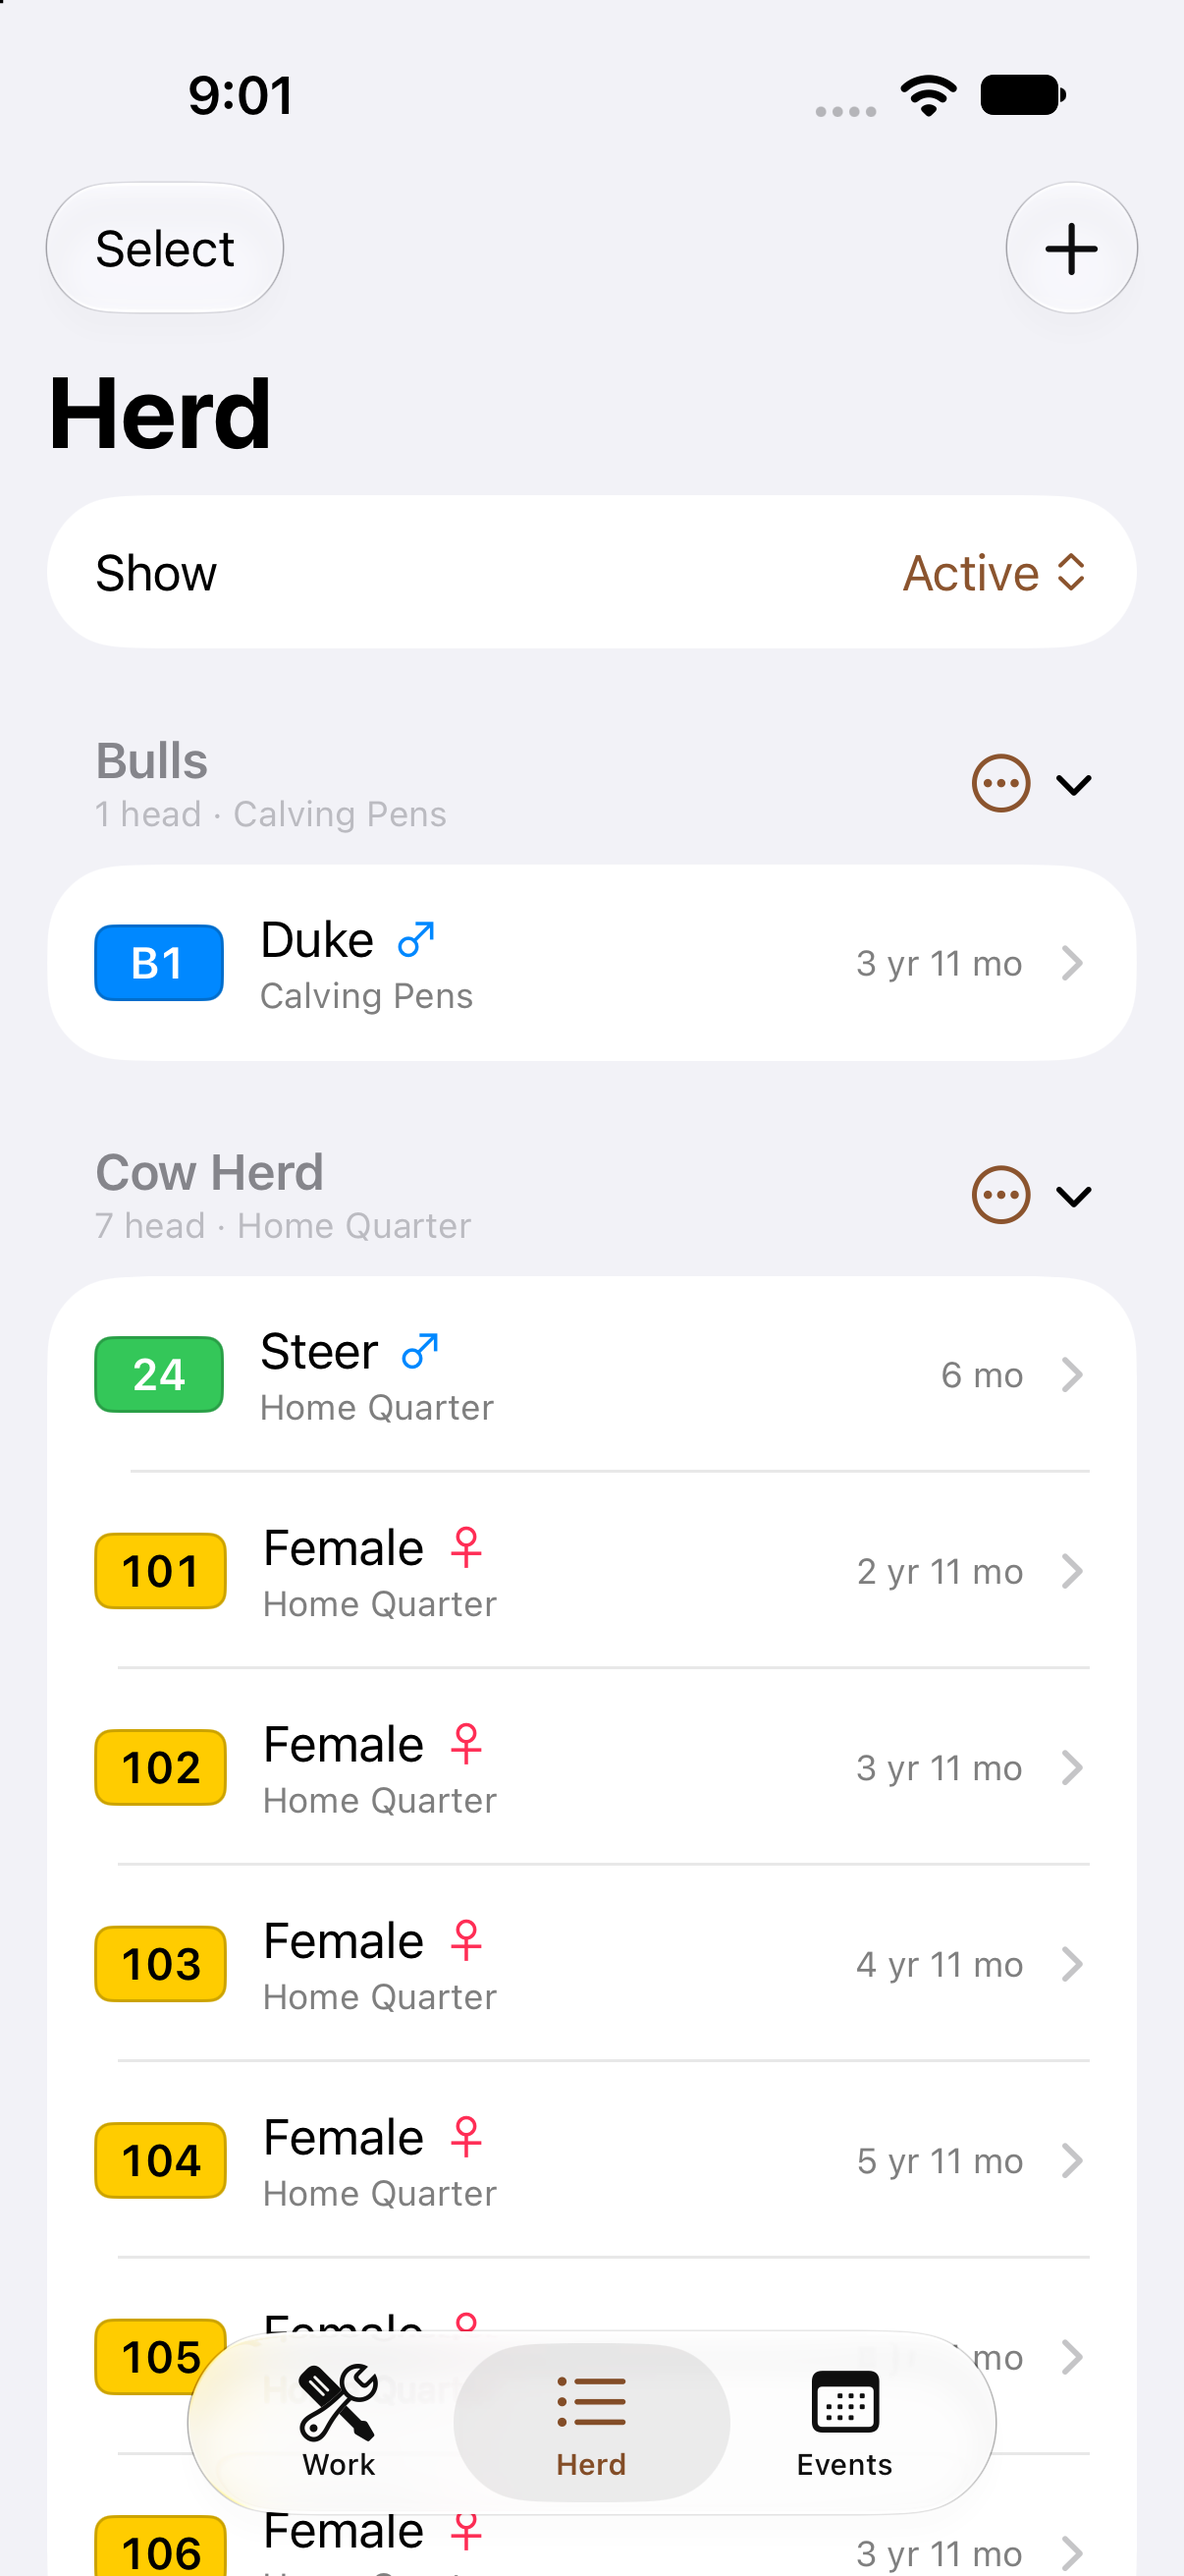
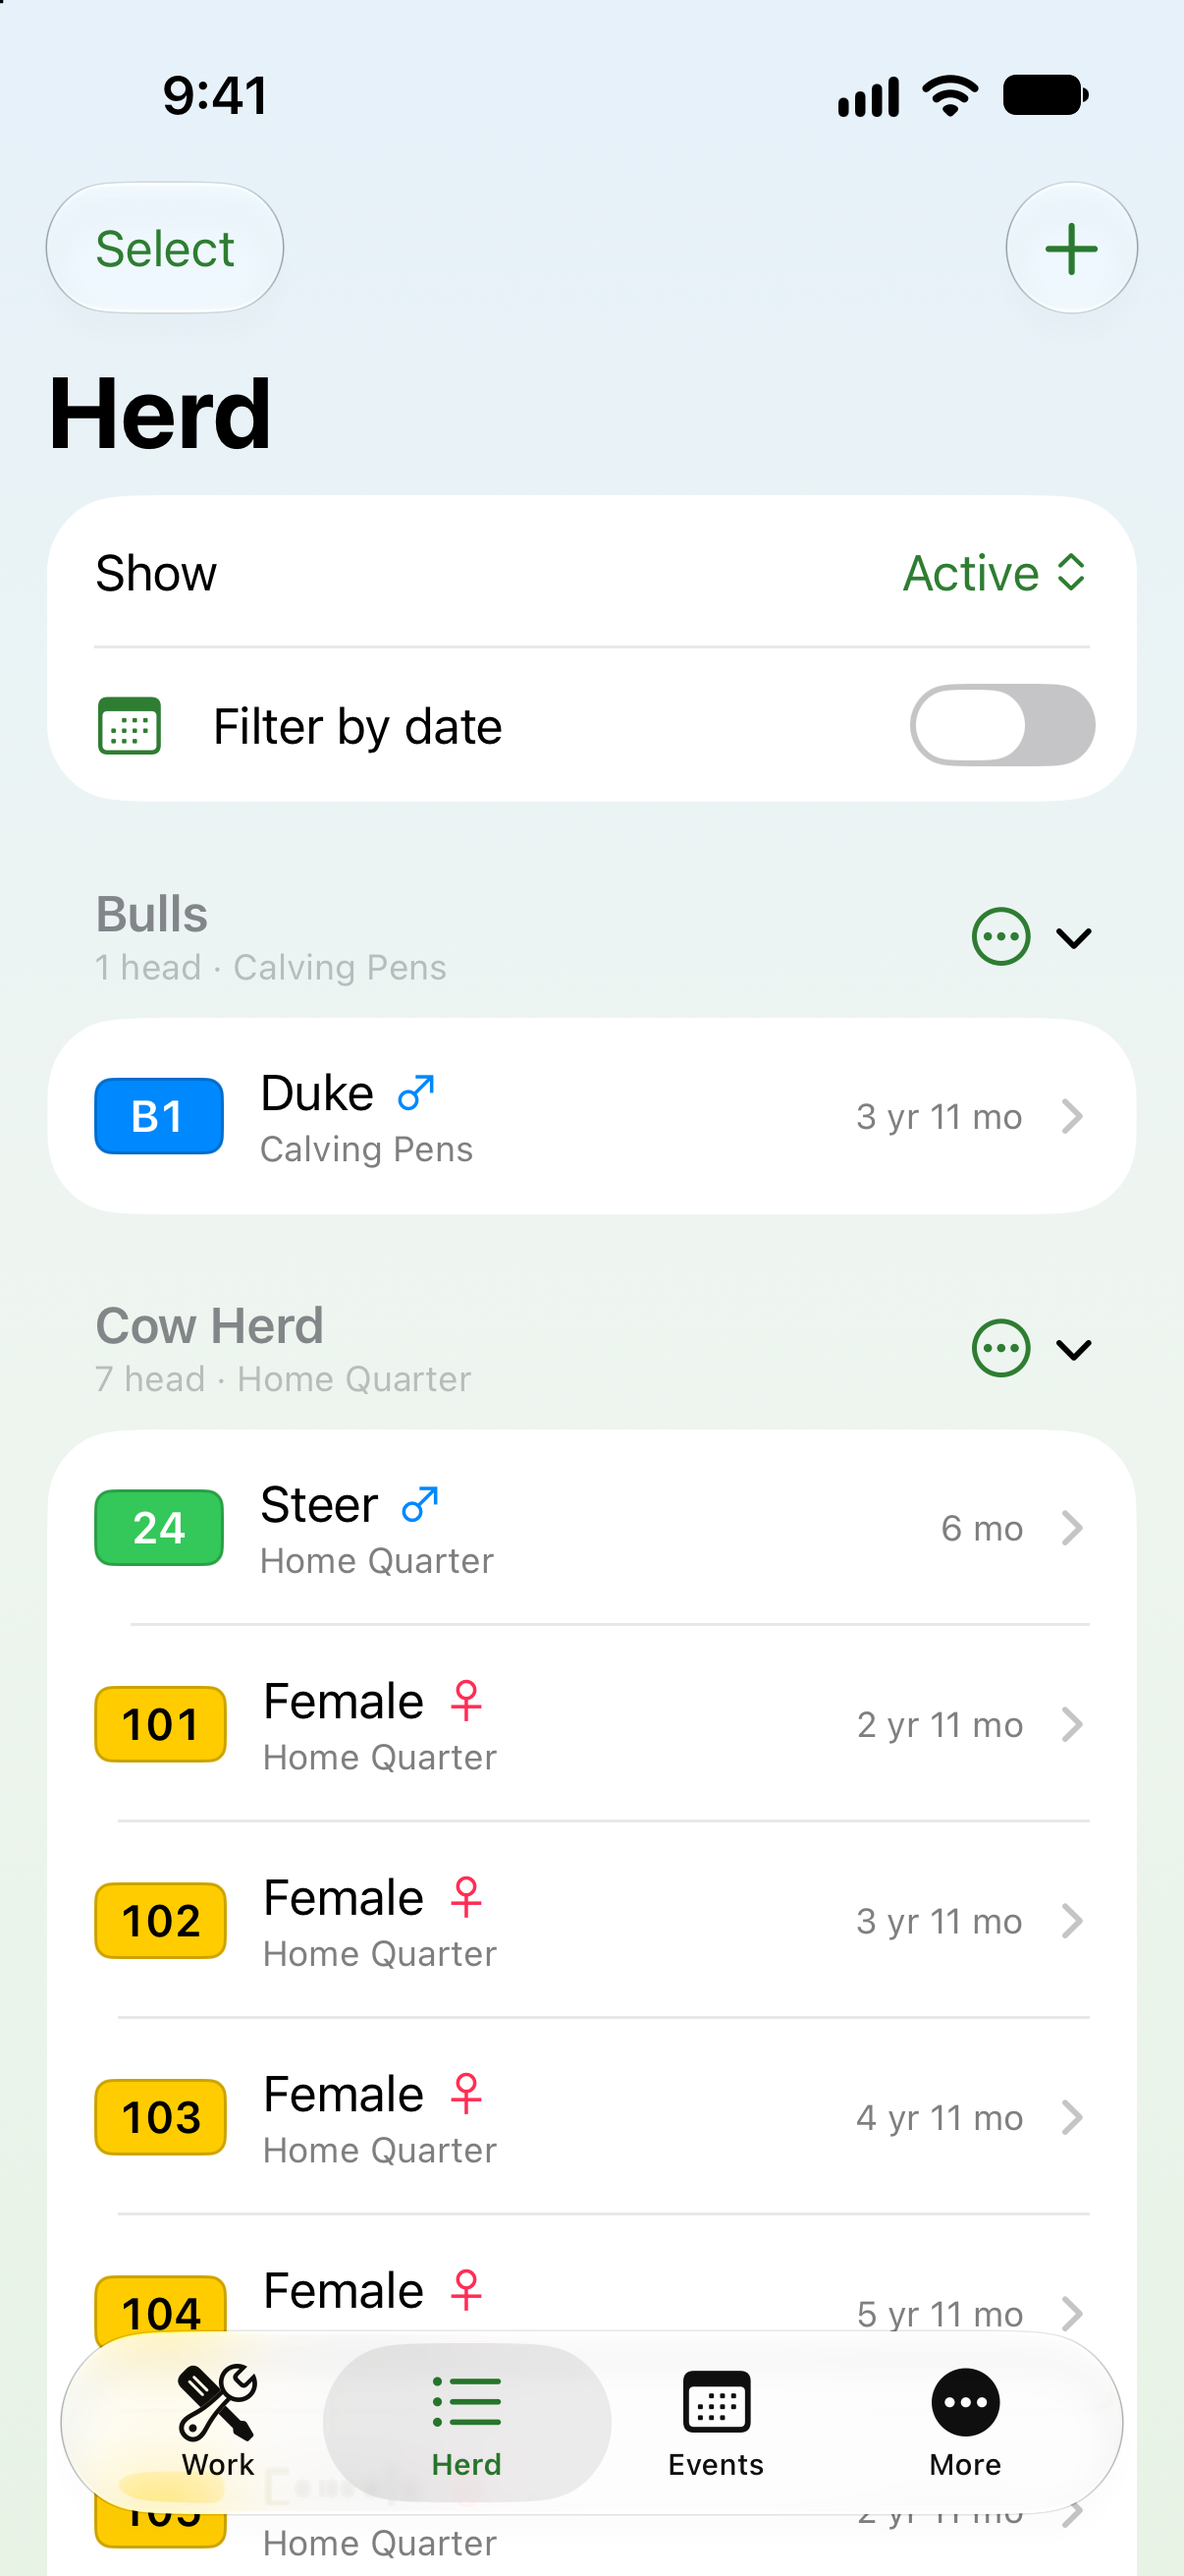
Add files via upload

diff --git a/ranchmaster_site/index.html b/ranchmaster_site/index.html
@@ -17,12 +17,14 @@
       </a>
       <nav class="nav-links" aria-label="Main navigation">
         <a href="#features">Features</a>
+        <a href="#screenshots">Screenshots</a>
         <a href="#pastures">Pastures &amp; Breeding</a>
         <a href="#crew">iCloud &amp; Crew</a>
         <a href="#reports">Reports</a>
+        <a href="help.html">Help</a>
         <a href="support.html">Support</a>
       </nav>
-      <a href="#download" class="btn btn-primary btn-sm">Get for iOS</a>
+      <a href="#notify" class="btn btn-primary btn-sm">Notify Me</a>
     </div>
   </header>
 
@@ -35,14 +37,20 @@
           <p class="lead">
             RanchMaster keeps your herd, pastures, breeding records, feed costs, and crew in sync—built to work without cell service and sync automatically over iCloud when you’re back in range.
           </p>
-          <div class="hero-actions" id="download">
-            <a href="#" class="btn btn-primary">Download on the App Store</a>
-            <a href="#features" class="btn btn-secondary">Explore Features</a>
+          <div class="notify-box" id="notify">
+            <label for="hero-email" class="notify-label">Be notified of the App Store release:</label>
+            <form class="notify-form" data-notify-form>
+              <input id="hero-email" name="email" type="email" class="notify-input" placeholder="you@example.com" required autocomplete="email" aria-label="Email address for release notification" />
+              <button type="submit" class="btn btn-primary">Notify Me</button>
+              <a href="#features" class="btn btn-secondary">Explore Features</a>
+            </form>
+            <p class="notify-status" aria-live="polite"></p>
           </div>
           <div class="hero-meta">
             <span>✓ Works offline on the ranch</span>
             <span>✓ EID &amp; camera tag scanning</span>
             <span>✓ Built-in sample ranch to try</span>
+            <span>✓ <a href="help.html">Full user guide</a></span>
           </div>
         </div>
 
@@ -203,12 +211,76 @@
       </div>
     </section>
 
+    <section id="screenshots">
+      <div class="container">
+        <div class="section-header">
+          <h2>See RanchMaster in Action</h2>
+          <p>Built for clarity in bright sunlight, at the chute, and at the desk.</p>
+        </div>
+
+        <div class="gallery-grid">
+          <figure class="gallery-item">
+            <div class="gallery-frame">
+              <img src="assets/screenshots/01-Work.png" alt="Work tab with quick actions and satellite pasture map" loading="lazy" />
+            </div>
+            <figcaption>Work &amp; Pasture Map</figcaption>
+          </figure>
+          <figure class="gallery-item">
+            <div class="gallery-frame">
+              <img src="assets/screenshots/02-Herd.png" alt="Herd tab with cattle groups and tag search" loading="lazy" />
+            </div>
+            <figcaption>Herd &amp; Groups</figcaption>
+          </figure>
+          <figure class="gallery-item">
+            <div class="gallery-frame">
+              <img src="assets/screenshots/03-Animal.png" alt="Animal detail screen with pedigree, weights, and profit" loading="lazy" />
+            </div>
+            <figcaption>Animal Profile</figcaption>
+          </figure>
+          <figure class="gallery-item">
+            <div class="gallery-frame">
+              <img src="assets/screenshots/04-Field.png" alt="Field screen with grazing days, AUMs, and bull log" loading="lazy" />
+            </div>
+            <figcaption>Field &amp; Grazing</figcaption>
+          </figure>
+          <figure class="gallery-item">
+            <div class="gallery-frame">
+              <img src="assets/screenshots/05-Sort.png" alt="Chute-side Sort screen with camera and EID scanning" loading="lazy" />
+            </div>
+            <figcaption>Chute-Side Sort</figcaption>
+          </figure>
+          <figure class="gallery-item">
+            <div class="gallery-frame">
+              <img src="assets/screenshots/06-ShippingReport.png" alt="Printable Shipping Report PDF preview" loading="lazy" />
+            </div>
+            <figcaption>Shipping Report PDF</figcaption>
+          </figure>
+          <figure class="gallery-item">
+            <div class="gallery-frame">
+              <img src="assets/screenshots/07-Reports.png" alt="Reports and exports menu" loading="lazy" />
+            </div>
+            <figcaption>Reports &amp; Exports</figcaption>
+          </figure>
+          <figure class="gallery-item">
+            <div class="gallery-frame">
+              <img src="assets/screenshots/08-Ranches.png" alt="Multi-ranch switcher and iCloud crew sharing" loading="lazy" />
+            </div>
+            <figcaption>Ranches &amp; Crew</figcaption>
+          </figure>
+        </div>
+      </div>
+    </section>
+
     <section>
       <div class="container">
         <div class="cta-banner">
-          <h2>Ready to simplify your herd records?</h2>
-          <p>Download RanchMaster for iPhone and iPad, load the built-in sample ranch to explore, and start tracking your cattle in minutes.</p>
-          <a href="#download" class="btn btn-secondary">Get RanchMaster on the App Store</a>
+          <h2>Be notified when RanchMaster launches</h2>
+          <p>Coming soon for iPhone and iPad. Enter your email to get a one-time notification on release day.</p>
+          <form class="notify-form" data-notify-form>
+            <input name="email" type="email" class="notify-input" placeholder="you@example.com" required autocomplete="email" aria-label="Email address for release notification" />
+            <button type="submit" class="btn btn-secondary">Notify Me</button>
+          </form>
+          <p class="notify-status" aria-live="polite"></p>
         </div>
       </div>
     </section>
@@ -218,6 +290,7 @@
     <div class="container footer-inner">
       <div>© <span id="year">2026</span> RanchMaster. All rights reserved.</div>
       <div class="footer-links">
+        <a href="help.html">Help</a>
         <a href="support.html">Support</a>
         <a href="privacy.html">Privacy Policy</a>
       </div>
@@ -225,6 +298,24 @@
   </footer>
   <script>
     document.getElementById("year").textContent = new Date().getFullYear();
+
+    document.querySelectorAll("[data-notify-form]").forEach((form) => {
+      form.addEventListener("submit", (e) => {
+        e.preventDefault();
+        const input = form.querySelector('input[type="email"]');
+        const status = form.parentElement.querySelector(".notify-status");
+        const email = input.value.trim();
+        if (!email) return;
+
+        // Static-site fallback: open a pre-filled email to info@glennbonnet.com or replace with a form endpoint (e.g. Formspree).
+        const subject = encodeURIComponent("RanchMaster Release Notification");
+        const body = encodeURIComponent("Please notify me when RanchMaster is released on the App Store.\n\nEmail: " + email);
+        window.location.href = "mailto:info@glennbonnet.com?subject=" + subject + "&body=" + body;
+
+        status.textContent = "Thanks! Your email app has been opened to register " + email + " for release updates.";
+        form.reset();
+      });
+    });
   </script>
 </body>
 </html>

diff --git a/ranchmaster_site/styles.css b/ranchmaster_site/styles.css
@@ -412,6 +412,111 @@ section {
   border: none;
 }
 
+/* Release Notification Form */
+.notify-box {
+  margin-bottom: 24px;
+}
+
+.notify-label {
+  display: block;
+  font-size: 0.92rem;
+  font-weight: 600;
+  color: var(--text);
+  margin-bottom: 10px;
+}
+
+.notify-form {
+  display: flex;
+  flex-wrap: wrap;
+  gap: 10px;
+  align-items: center;
+}
+
+.notify-input {
+  flex: 1 1 240px;
+  min-width: 0;
+  padding: 12px 16px;
+  border-radius: 12px;
+  border: 1px solid var(--border);
+  background: var(--surface);
+  color: var(--text);
+  font-size: 0.98rem;
+  font-family: inherit;
+  outline: none;
+  transition: border-color 0.15s ease, box-shadow 0.15s ease;
+}
+
+.notify-input:focus {
+  border-color: var(--field);
+  box-shadow: 0 0 0 3px rgba(46, 125, 50, 0.16);
+}
+
+.notify-status {
+  margin: 10px 0 0;
+  font-size: 0.92rem;
+  font-weight: 500;
+  color: var(--field-dark);
+  min-height: 1.4em;
+}
+
+.cta-banner .notify-form {
+  justify-content: center;
+  max-width: 480px;
+  margin: 0 auto;
+}
+
+.cta-banner .notify-input {
+  border-color: rgba(255, 255, 255, 0.35);
+}
+
+.cta-banner .notify-status {
+  color: #ffffff;
+}
+
+/* Screenshot Gallery */
+.gallery-grid {
+  display: grid;
+  grid-template-columns: repeat(4, minmax(0, 1fr));
+  gap: 20px;
+}
+
+.gallery-item {
+  margin: 0;
+  text-align: center;
+}
+
+.gallery-frame {
+  background: #0f1712;
+  padding: 8px;
+  border-radius: 28px;
+  box-shadow: 0 20px 44px -18px rgba(19, 34, 23, 0.32);
+  border: 2px solid rgba(255, 255, 255, 0.45);
+  transition: transform 0.18s ease;
+}
+
+.gallery-frame:hover {
+  transform: translateY(-4px);
+}
+
+.gallery-frame img {
+  border-radius: 20px;
+  width: 100%;
+  height: auto;
+}
+
+.gallery-item figcaption {
+  margin-top: 10px;
+  font-size: 0.92rem;
+  font-weight: 600;
+  color: var(--text);
+}
+
+@media (max-width: 920px) {
+  .gallery-grid {
+    grid-template-columns: repeat(2, minmax(0, 1fr));
+  }
+}
+
 /* Subpages (Privacy / Support) */
 .prose-card {
   background: var(--surface);

diff --git a/ranchmaster_site/support.html b/ranchmaster_site/support.html
@@ -18,16 +18,17 @@
         <a href="index.html#features">Features</a>
         <a href="index.html#pastures">Pastures &amp; Breeding</a>
         <a href="index.html#crew">iCloud &amp; Crew</a>
+        <a href="help.html">Help</a>
         <a href="support.html">Support</a>
       </nav>
-      <a href="index.html#download" class="btn btn-primary btn-sm">Get for iOS</a>
+      <a href="index.html#notify" class="btn btn-primary btn-sm">Notify Me</a>
     </div>
   </header>
 
   <main class="container">
     <article class="prose-card">
       <h1>RanchMaster Support</h1>
-      <p>Need help setting up your ranch, connecting an EID reader, or sharing with your crew? Check the quick answers below or reach out directly.</p>
+      <p>Need help setting up your ranch, connecting an EID reader, or sharing with your crew? Check the quick answers below, browse the full <a href="help.html">RanchMaster Help</a> guide, or reach out directly.</p>
 
       <h2>Frequently Asked Questions</h2>
 
@@ -53,6 +54,7 @@
       <div>© 2026 RanchMaster. All rights reserved.</div>
       <div class="footer-links">
         <a href="index.html">Home</a>
+        <a href="help.html">Help</a>
         <a href="privacy.html">Privacy Policy</a>
       </div>
     </div>

diff --git a/ranchmaster_site/privacy.html b/ranchmaster_site/privacy.html
@@ -18,9 +18,10 @@
         <a href="index.html#features">Features</a>
         <a href="index.html#pastures">Pastures &amp; Breeding</a>
         <a href="index.html#crew">iCloud &amp; Crew</a>
+        <a href="help.html">Help</a>
         <a href="support.html">Support</a>
       </nav>
-      <a href="index.html#download" class="btn btn-primary btn-sm">Get for iOS</a>
+      <a href="index.html#notify" class="btn btn-primary btn-sm">Notify Me</a>
     </div>
   </header>
 
@@ -57,6 +58,7 @@
       <div>© 2026 RanchMaster. All rights reserved.</div>
       <div class="footer-links">
         <a href="index.html">Home</a>
+        <a href="help.html">Help</a>
         <a href="support.html">Support</a>
       </div>
     </div>

diff --git a/ranchmaster_site/help.html b/ranchmaster_site/help.html
@@ -22,7 +22,7 @@
         <a href="help.html" aria-current="page">Help</a>
         <a href="support.html">Support</a>
       </nav>
-      <a href="index.html#download" class="btn btn-primary btn-sm">Get for iOS</a>
+      <a href="index.html#notify" class="btn btn-primary btn-sm">Notify Me</a>
     </div>
   </header>
 
